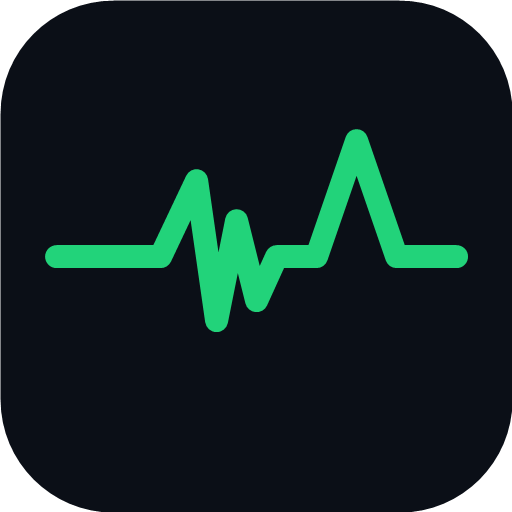
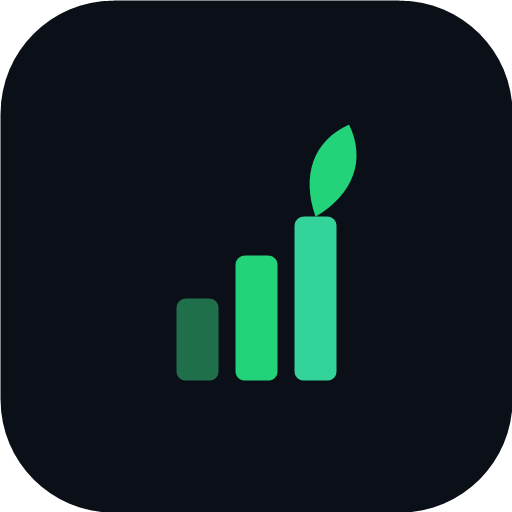
feat: novo ícone do app — agro + desenvolvimento (barras ascendentes + folha)
Ícone "colheita de dados": gráfico de barras ascendente (verde escuro→médio→
claro) com uma folha brotando da barra mais alta — une gestão/desenvolvimento
(crescimento medido) e agro (folha), na paleta #22d37a sobre #0b0f17.

Conjunto completo para celular e PC:
- icon-192/512.png (any, cantos arredondados)
- icon-192/512-maskable.png (maskable Android, arte na zona segura)
- apple-touch-icon.png (180, iOS)
- favicon-32/64.png (aba do navegador no PC)
- icon.svg (vetor mestre / favicon SVG)
- manifest.json: separa purpose "any" e "maskable" corretamente
- meta tags: apple-touch-icon dedicado + favicons PNG
- sw.js: cache v2→v3 p/ forçar atualização

Changed region(s): [[0.0938, 0.25, 0.9375, 0.75]]

diff --git a/agritrack_dashboard.html b/agritrack_dashboard.html
@@ -4,11 +4,13 @@
 <meta charset="UTF-8">
 <meta name="viewport" content="width=device-width,initial-scale=1.0">
 <title>AgriTrack — Central de Projetos</title>
-<!-- PWA -->
+<!-- PWA + favicons (celular e PC) -->
 <link rel="manifest" href="manifest.json">
 <link rel="icon" type="image/svg+xml" href="icon.svg">
+<link rel="icon" type="image/png" sizes="64x64" href="favicon-64.png">
+<link rel="icon" type="image/png" sizes="32x32" href="favicon-32.png">
 <link rel="icon" type="image/png" sizes="192x192" href="icon-192.png">
-<link rel="apple-touch-icon" href="icon-192.png">
+<link rel="apple-touch-icon" sizes="180x180" href="apple-touch-icon.png">
 <meta name="theme-color" content="#0b0f17">
 <meta name="mobile-web-app-capable" content="yes">
 <meta name="apple-mobile-web-app-capable" content="yes">

diff --git a/sw.js b/sw.js
@@ -1,5 +1,5 @@
 /* AgriTrack PWA — Service Worker */
-const CACHE = 'agritrack-v2';
+const CACHE = 'agritrack-v3';
 const PRECACHE = [
   '/agritrack/agritrack_dashboard.html',
   '/agritrack/manifest.json',